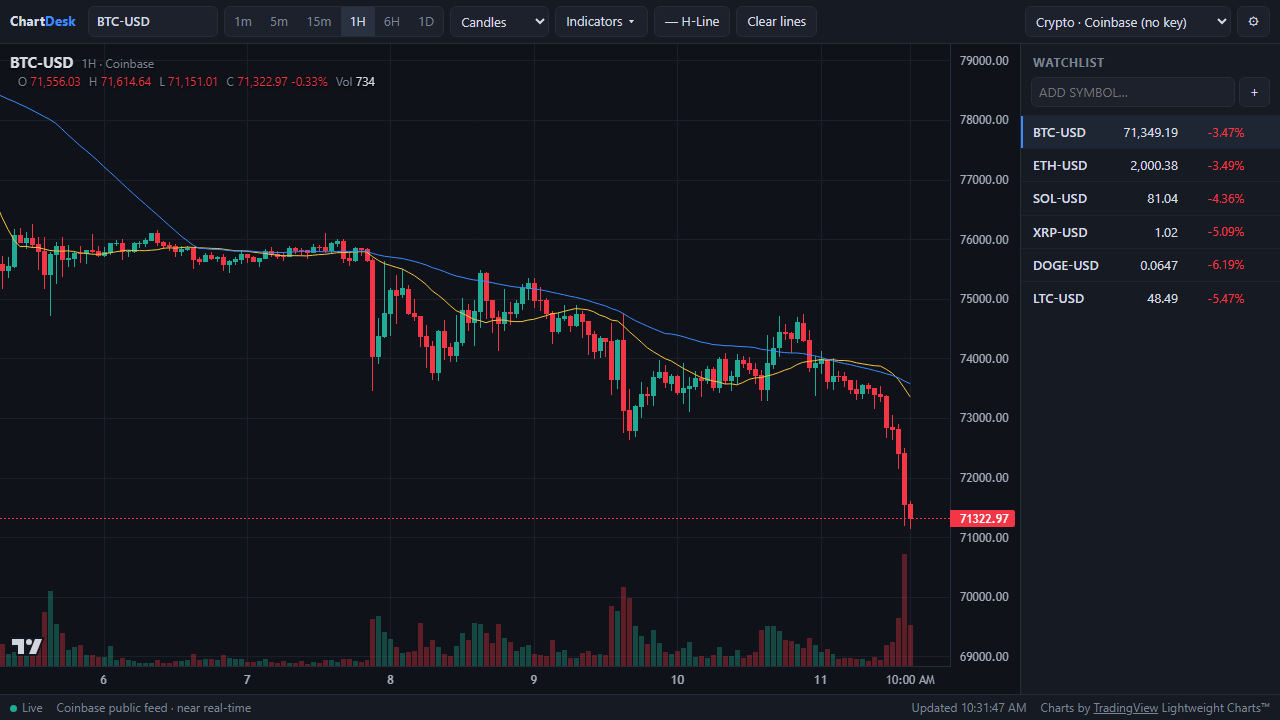
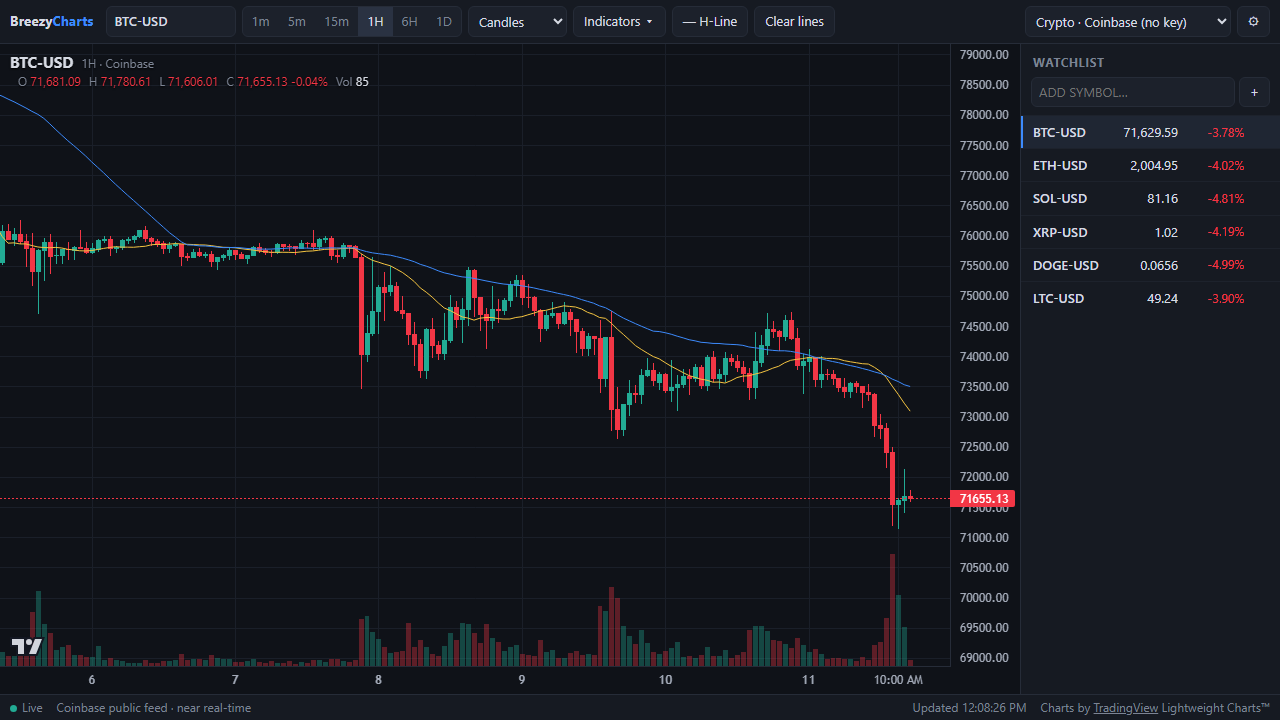
rename

diff --git a/index.html b/index.html
@@ -3,7 +3,7 @@
 <head>
 <meta charset="utf-8">
 <meta name="viewport" content="width=device-width, initial-scale=1">
-<title>ChartDesk</title>
+<title>BreezyCharts</title>
 <script src="https://cdn.jsdelivr.net/npm/lightweight-charts@5.1.0/dist/lightweight-charts.standalone.production.js" integrity="sha384-ExNwjbclSLY2LS3S2c6aDJDjpBHGZLct23WX65fLzj0ob1bRrCh9H90WThES5wQA" crossorigin="anonymous"></script>
 <style>
   :root{
@@ -107,7 +107,7 @@
 <body>
 <div class="app">
   <header>
-    <div class="brand">Chart<span>Desk</span></div>
+    <div class="brand">Breezy<span>Charts</span></div>
     <input id="symInput" class="sym" spellcheck="false" autocomplete="off" title="Type a symbol and press Enter">
     <div id="tfGroup" class="group"></div>
     <select id="chartType" class="btn" title="Chart type">
@@ -182,7 +182,7 @@
 
 <!-- The formula language for custom indicators. Self-contained: it defines window.Formula and nothing else. -->
 <script id="formula">
-/* ChartDesk Formula: a small series-based language for chart indicators.
+/* BreezyCharts Formula: a small series-based language for chart indicators.
 
    A script is a list of lines, each either `name = expression` or a call such as plot(...).
    Every value is a number, a piece of text, or a series holding one value per bar, and
@@ -747,9 +747,18 @@ if (!LC) { document.getElementById('overlayMsg').textContent = 'Could not load t
 
 /* ---- storage ---- */
 const store = {
-  get(k, d){ try { const v = localStorage.getItem('chartdesk.'+k); return v == null ? d : JSON.parse(v); } catch { return d; } },
-  set(k, v){ try { localStorage.setItem('chartdesk.'+k, JSON.stringify(v)); } catch {} }
+  get(k, d){ try { const v = localStorage.getItem('breezycharts.'+k); return v == null ? d : JSON.parse(v); } catch { return d; } },
+  set(k, v){ try { localStorage.setItem('breezycharts.'+k, JSON.stringify(v)); } catch {} }
 };
+// One-time move of anything saved under the app's former name, so the key, watchlists and scripts carry over.
+try {
+  for (let i = localStorage.length - 1; i >= 0; i--) {
+    const old = localStorage.key(i); if (!old || !old.startsWith('chartdesk.')) continue;
+    const now = 'breezycharts.' + old.slice('chartdesk.'.length);
+    if (localStorage.getItem(now) == null) localStorage.setItem(now, localStorage.getItem(old));
+    localStorage.removeItem(old);
+  }
+} catch {}
 
 /* ---- helpers ---- */
 const $ = id => document.getElementById(id);

diff --git a/tests/browser-checks.js b/tests/browser-checks.js
@@ -101,7 +101,7 @@ const sorted = () => bars.every((b, i) => !i || b.time > bars[i-1].time);
     $('indBtn').click(); $('newScript').click(); await sleep(100);
     const ns = scripts[scripts.length - 1];
     T('new script opens, is on and draws', scripts.length === 5 && ns.on && $('editor').classList.contains('show') && $('edName').value === 'My script' && !!seriesOf('s:' + ns.id + ':0') && /^OK · drawing 1 series/.test($('edMsg').textContent), $('edMsg').textContent);
-    T('scripts are saved', JSON.parse(localStorage.getItem('chartdesk.scripts')).length === 5);
+    T('scripts are saved', JSON.parse(localStorage.getItem('breezycharts.scripts')).length === 5);
 
     /* ---- scripts: gaps and dots survive refreshes ---- */
     type($('edSrc'), ['avg = sma(close, 20)', 'plot(close > avg ? high : na, "Above", color=pink, width=3)', 'plot(crossover(close, avg) ? low : na, "Buy", color=green, style=dots)', 'plot(crossunder(close, avg) ? high : na, "Sell", color=red, style=dots)'].join('\n'));
@@ -129,11 +129,11 @@ const sorted = () => bars.every((b, i) => !i || b.time > bars[i-1].time);
     tdMem = []; // as after a reload: only the saved log is left
     let chartWaited = true; tdAcquire('user').then(() => { chartWaited = false; });
     await sleep(500);
-    T('spent credits survive a reload', JSON.parse(localStorage.getItem('chartdesk.tdLog')).length === 8 && chartWaited);
+    T('spent credits survive a reload', JSON.parse(localStorage.getItem('breezycharts.tdLog')).length === 8 && chartWaited);
     tdQueue.length = 0; // forget the requests left waiting above
 
     /* ---- Twelve Data daily allowance ---- */
-    T('credits are counted for the day', tdDayUsed() === 8 && JSON.parse(localStorage.getItem('chartdesk.tdDay')).n === 8 && /^8 \/ 800/.test($('tdDay').textContent), $('tdDay').textContent);
+    T('credits are counted for the day', tdDayUsed() === 8 && JSON.parse(localStorage.getItem('breezycharts.tdDay')).n === 8 && /^8 \/ 800/.test($('tdDay').textContent), $('tdDay').textContent);
     tdDaySet(640);
     T('warns from 80% of the daily allowance', /640 of 800/.test($('tdDay').textContent) && $('tdDay').style.color.includes('--warn'), $('tdDay').textContent);
     let dayErr = ''; try { tdDayRefused({ code:429, message:'You have run out of API credits for the day. 801 API credits were used, with the current limit being 800.' }); } catch (e) { dayErr = e.message; }

diff --git a/tests/browser.test.js b/tests/browser.test.js
@@ -29,7 +29,7 @@ const checks = fs.readFileSync(path.join(__dirname, 'browser-checks.js'), 'utf8'
 const end = html.lastIndexOf('})();'); // the close of the app's script, so the checks share its scope
 if (end < 0) { console.error('Could not find the end of the app script in index.html.'); process.exit(2); }
 
-const tmp = fs.mkdtempSync(path.join(os.tmpdir(), 'chartdesk-test-'));
+const tmp = fs.mkdtempSync(path.join(os.tmpdir(), 'breezycharts-test-'));
 let out = '';
 try {
   fs.writeFileSync(path.join(tmp, 'index.html'), html.slice(0, end) + '\n' + checks + '\n' + html.slice(end));

diff --git a/README.md b/README.md
@@ -1,8 +1,8 @@
-# ChartDesk
+# BreezyCharts
 
-A personal price-chart desk in one static file, for use on your own computer. No build step, no server, no account: open `index.html` and it works.
+A personal price-chart app in one static file, for use on your own computer. No build step, no server, no account: open `index.html` and it works.
 
-![ChartDesk showing BTC-USD on the 1-hour timeframe](screenshot.png)
+![BreezyCharts showing BTC-USD on the 1-hour timeframe](screenshot.png)
 
 ## What it does
 
@@ -21,7 +21,7 @@ A personal price-chart desk in one static file, for use on your own computer. No
 
 Download `index.html` and open it in a browser on your own computer. The whole app is that one file. It needs an internet connection to load the charting library and prices.
 
-ChartDesk is meant for personal use, run locally with your own data key. It is not meant to be published as a website for other people: the stock data comes under Twelve Data's terms, and its free plan is for personal use only.
+BreezyCharts is meant for personal use, run locally with your own data key. It is not meant to be published as a website for other people: the stock data comes under Twelve Data's terms, and its free plan is for personal use only.
 
 Type anywhere to jump to the symbol box, then press Enter. Press Esc to cancel placing a line.
 
@@ -93,13 +93,13 @@ The language is its own script block in `index.html` (`<script id="formula">`). 
 Stocks need a free Twelve Data key:
 
 1. Register at [twelvedata.com/register](https://twelvedata.com/register). No card is needed.
-2. In ChartDesk, open ⚙ Settings and paste the key.
+2. In BreezyCharts, open ⚙ Settings and paste the key.
 
 The free plan covers US markets and is for personal use only. Use your own key, on your own computer, and do not put the charts or prices where other people can see them. Twelve Data's terms say what your plan allows.
 
 #### Credits
 
-Twelve Data counts usage in credits, and the free plan allows 8 a minute and 800 a day. ChartDesk spends them like this:
+Twelve Data counts usage in credits, and the free plan allows 8 a minute and 800 a day. BreezyCharts spends them like this:
 
 | Action | Credits |
 | --- | --- |
@@ -108,7 +108,7 @@ Twelve Data counts usage in credits, and the free plan allows 8 a minute and 800
 | Loading older bars when you scroll back | 1 per page of 500 bars |
 | Watchlist quotes, once a minute | 1 per symbol, 3 symbols per round |
 
-ChartDesk paces its own requests so it stays inside the per-minute limit:
+BreezyCharts paces its own requests so it stays inside the per-minute limit:
 
 - **Background use is 4 credits a minute**: 1 for the chart and 3 for the watchlist. The other 4 are there for your clicks.
 - **The watchlist rotates.** Each round quotes the three symbols whose prices are oldest, so a six-symbol list is fully refreshed about every two minutes, and a longer list takes proportionally longer.
@@ -116,9 +116,9 @@ ChartDesk paces its own requests so it stays inside the per-minute limit:
 - **Only the chart you ended on is loaded.** If you click through several symbols or timeframes while requests are waiting, the ones you skipped past are dropped without spending a credit.
 - **Requests wait instead of failing.** If a minute's credits are used up, the status line shows "Waiting for Twelve Data rate limit…" and the chart loads as soon as a credit is free, at most about a minute later.
 - **The count is shared.** It is kept in your browser, so several tabs share one budget and a reload does not reset it. Saving a different key starts a new count.
-- **Use elsewhere is not counted.** If the same key is used in another browser or on another device, Twelve Data may refuse a request anyway. ChartDesk then waits out the minute and tries the chart once more.
+- **Use elsewhere is not counted.** If the same key is used in another browser or on another device, Twelve Data may refuse a request anyway. BreezyCharts then waits out the minute and tries the chart once more.
 
-At 4 credits a minute, a tab left open and visible uses the 800 daily credits in a little over three hours. The status bar shows how many credits this browser has spent today. The count turns amber with a warning at 640 (80%) and red at 800, after which Twelve Data refuses requests until the next day and ChartDesk says so instead of retrying. The count restarts at midnight UTC and, like the per-minute count, does not see use of the same key elsewhere. Refreshes stop while the tab is in the background, and you can turn automatic refresh off in ⚙ Settings so that credits are spent only when you click or come back to the tab.
+At 4 credits a minute, a tab left open and visible uses the 800 daily credits in a little over three hours. The status bar shows how many credits this browser has spent today. The count turns amber with a warning at 640 (80%) and red at 800, after which Twelve Data refuses requests until the next day and BreezyCharts says so instead of retrying. The count restarts at midnight UTC and, like the per-minute count, does not see use of the same key elsewhere. Refreshes stop while the tab is in the background, and you can turn automatic refresh off in ⚙ Settings so that credits are spent only when you click or come back to the tab.
 
 ## Privacy
 
@@ -139,7 +139,7 @@ The first checks the formula language on its own. The second opens the app in he
 
 Charts are drawn with [TradingView Lightweight Charts™](https://github.com/tradingview/lightweight-charts) (Apache 2.0). Market data comes from [Coinbase Exchange](https://docs.cdp.coinbase.com/exchange/docs/welcome) and [Twelve Data](https://twelvedata.com/).
 
-ChartDesk is not financial advice, and prices may be delayed or wrong.
+BreezyCharts is not financial advice, and prices may be delayed or wrong.
 
 ## License
 
